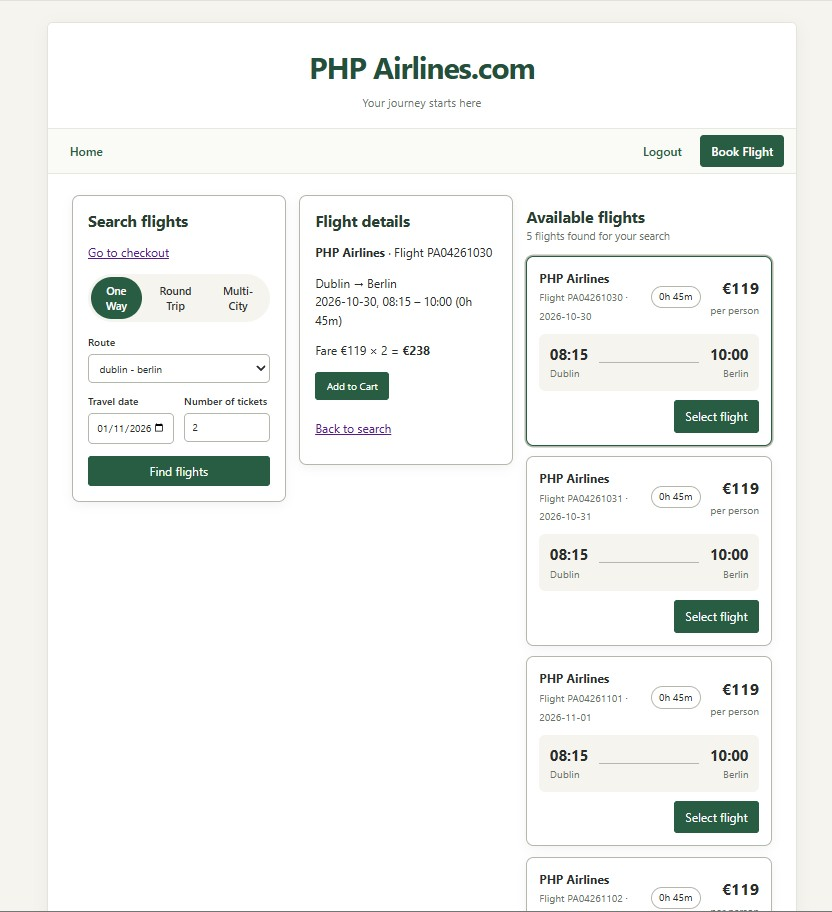
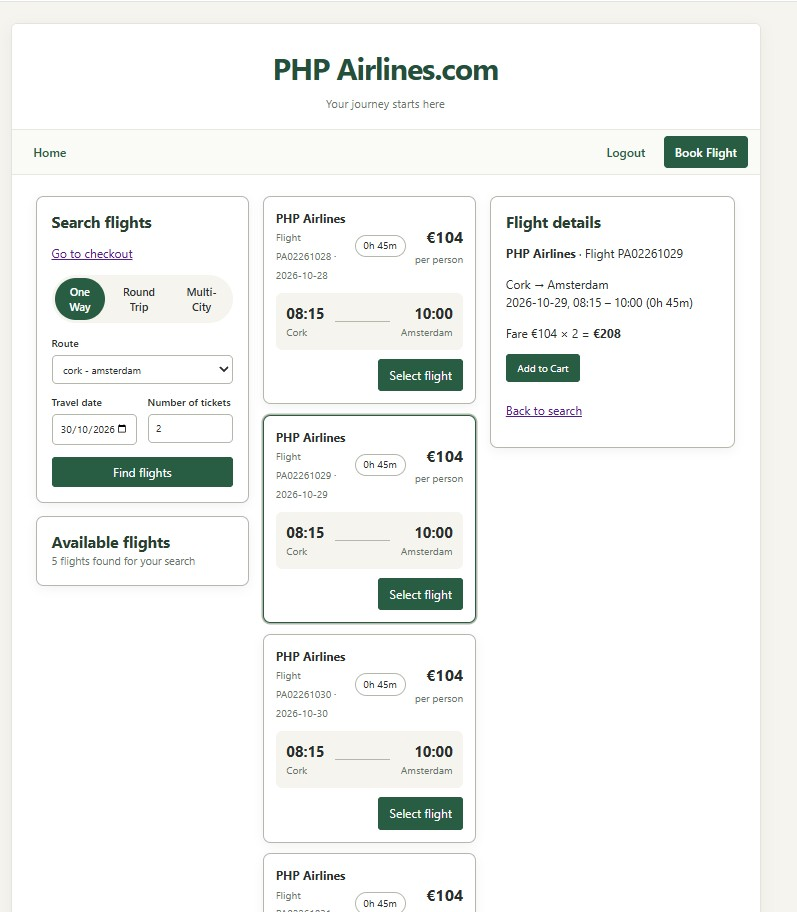
Rearrange columns on home page, move Results to pane1

diff --git a/mystyles.css b/mystyles.css
@@ -465,6 +465,27 @@ input[type="submit"]:disabled {
     align-items: start;
 }
 
+/* Search pane and results summary grouped in Pane 1 */
+.workspace-search-column {
+    display: grid;
+    grid-template-columns: minmax(0, 1fr);
+    gap: 18px;
+    min-width: 0;
+}
+
+/* Available flights summary below search form */
+.results-summary {
+    min-width: 0;
+}
+
+.results-summary .results-header h2 {
+    margin-top: 0;
+}
+
+.results-summary .results-header p {
+    margin-bottom: 0;
+}
+
 /* Remove the old .col rules – they are no longer needed */
 
 .search-card,

diff --git a/insidestyles.css b/insidestyles.css
@@ -412,6 +412,29 @@ a:focus-visible {
     align-items: start;
 }
 
+/* Search pane and results summary grouped in Pane 1 */
+.workspace-search-column {
+    display: grid;
+    grid-template-columns: minmax(0, 1fr);
+    gap: 18px;
+    min-width: 0;
+}
+
+/* Available flights summary below search form */
+.results-summary {
+    min-width: 0;
+}
+
+.results-summary .results-header h2 {
+    margin-top: 0;
+}
+
+.results-summary .results-header p {
+    margin-bottom: 0;
+}
+
+
+
 /* Remove the old .col rules – they are no longer needed */
 
 .search-card,

diff --git a/library.php b/library.php
@@ -112,8 +112,10 @@ trait FlightWorkspace {
     //     echo '</div>';
     //     echo '</div>';
     // }
+   
     protected function renderWorkspace($showCheckout = false, $flights = null, $selectedId = null) {
         $selected = null;
+
         if (is_array($flights)) {
             foreach ($flights as $f) {
                 if ($f['flight_id'] === $selectedId) {
@@ -124,9 +126,19 @@ trait FlightWorkspace {
         }
 
         echo '<div id="content" class="flight-workspace triple-pane">';
-        $this->searchPane($showCheckout);   // Pane 1 – left
-        $this->detailsPane($selected);      // Pane 2 – middle
-        $this->resultsPane($flights, $selectedId); // Pane 3 – right
+
+        // Pane 1 – Search form and results summary
+        echo '<div class="workspace-search-column">';
+        $this->searchPane($showCheckout);
+        $this->resultsSummaryPane($flights);
+        echo '</div>';
+
+        // Pane 2 – Available flight cards
+        $this->resultsPane($flights, $selectedId);
+
+        // Pane 3 – Selected flight details and Add to Cart
+        $this->detailsPane($selected);
+
         echo '</div>';
     }
 
@@ -197,17 +209,18 @@ trait FlightWorkspace {
     }
 
     protected function resultsPane($flights = null, $selectedId = null) {
-        $n = is_array($flights) ? count($flights) : 0;
-        $msg = ($flights === null)
-            ? 'Search for a route and date to see flights.'
-            : ($n ? $n . ' flight' . ($n === 1 ? '' : 's') . ' found for your search'
-                 : 'No flights found for those dates.');
+        // $n = is_array($flights) ? count($flights) : 0;
+        // $msg = ($flights === null)
+        //     ? 'Search for a route and date to see flights.'
+        //     : ($n ? $n . ' flight' . ($n === 1 ? '' : 's') . ' found for your search'
+        //          : 'No flights found for those dates.');
 
-        echo '<section aria-labelledby="results-title">';
-        echo '<div class="results-header">';
-        echo '<h2 id="results-title">Available flights</h2>';
-        echo '<p>' . $msg . '</p>';
-        echo '</div>';
+        // echo '<section aria-labelledby="results-title">';
+        // echo '<div class="results-header">';
+        // echo '<h2 id="results-title">Available flights</h2>';
+        // echo '<p>' . $msg . '</p>';
+        // echo '</div>';
+        echo '<section class="flight-results" aria-label="Available flight results">';
 
         if (is_array($flights)) {
             foreach ($flights as $f) {
@@ -237,6 +250,23 @@ trait FlightWorkspace {
                 echo '</article>';
             }
         }
+        echo '</section>';
+    }
+
+    protected function resultsSummaryPane($flights = null) {
+        $n = is_array($flights) ? count($flights) : 0;
+
+        $msg = ($flights === null)
+            ? 'Search for a route and date to see flights.'
+            : ($n
+                ? $n . ' flight' . ($n === 1 ? '' : 's') . ' found for your search'
+                : 'No flights found for those dates.');
+
+        echo '<section class="search-card results-summary" aria-labelledby="results-title">';
+        echo '<div class="results-header">';
+        echo '<h2 id="results-title">Available flights</h2>';
+        echo '<p>' . esc($msg) . '</p>';
+        echo '</div>';
         echo '</section>';
     }
 
